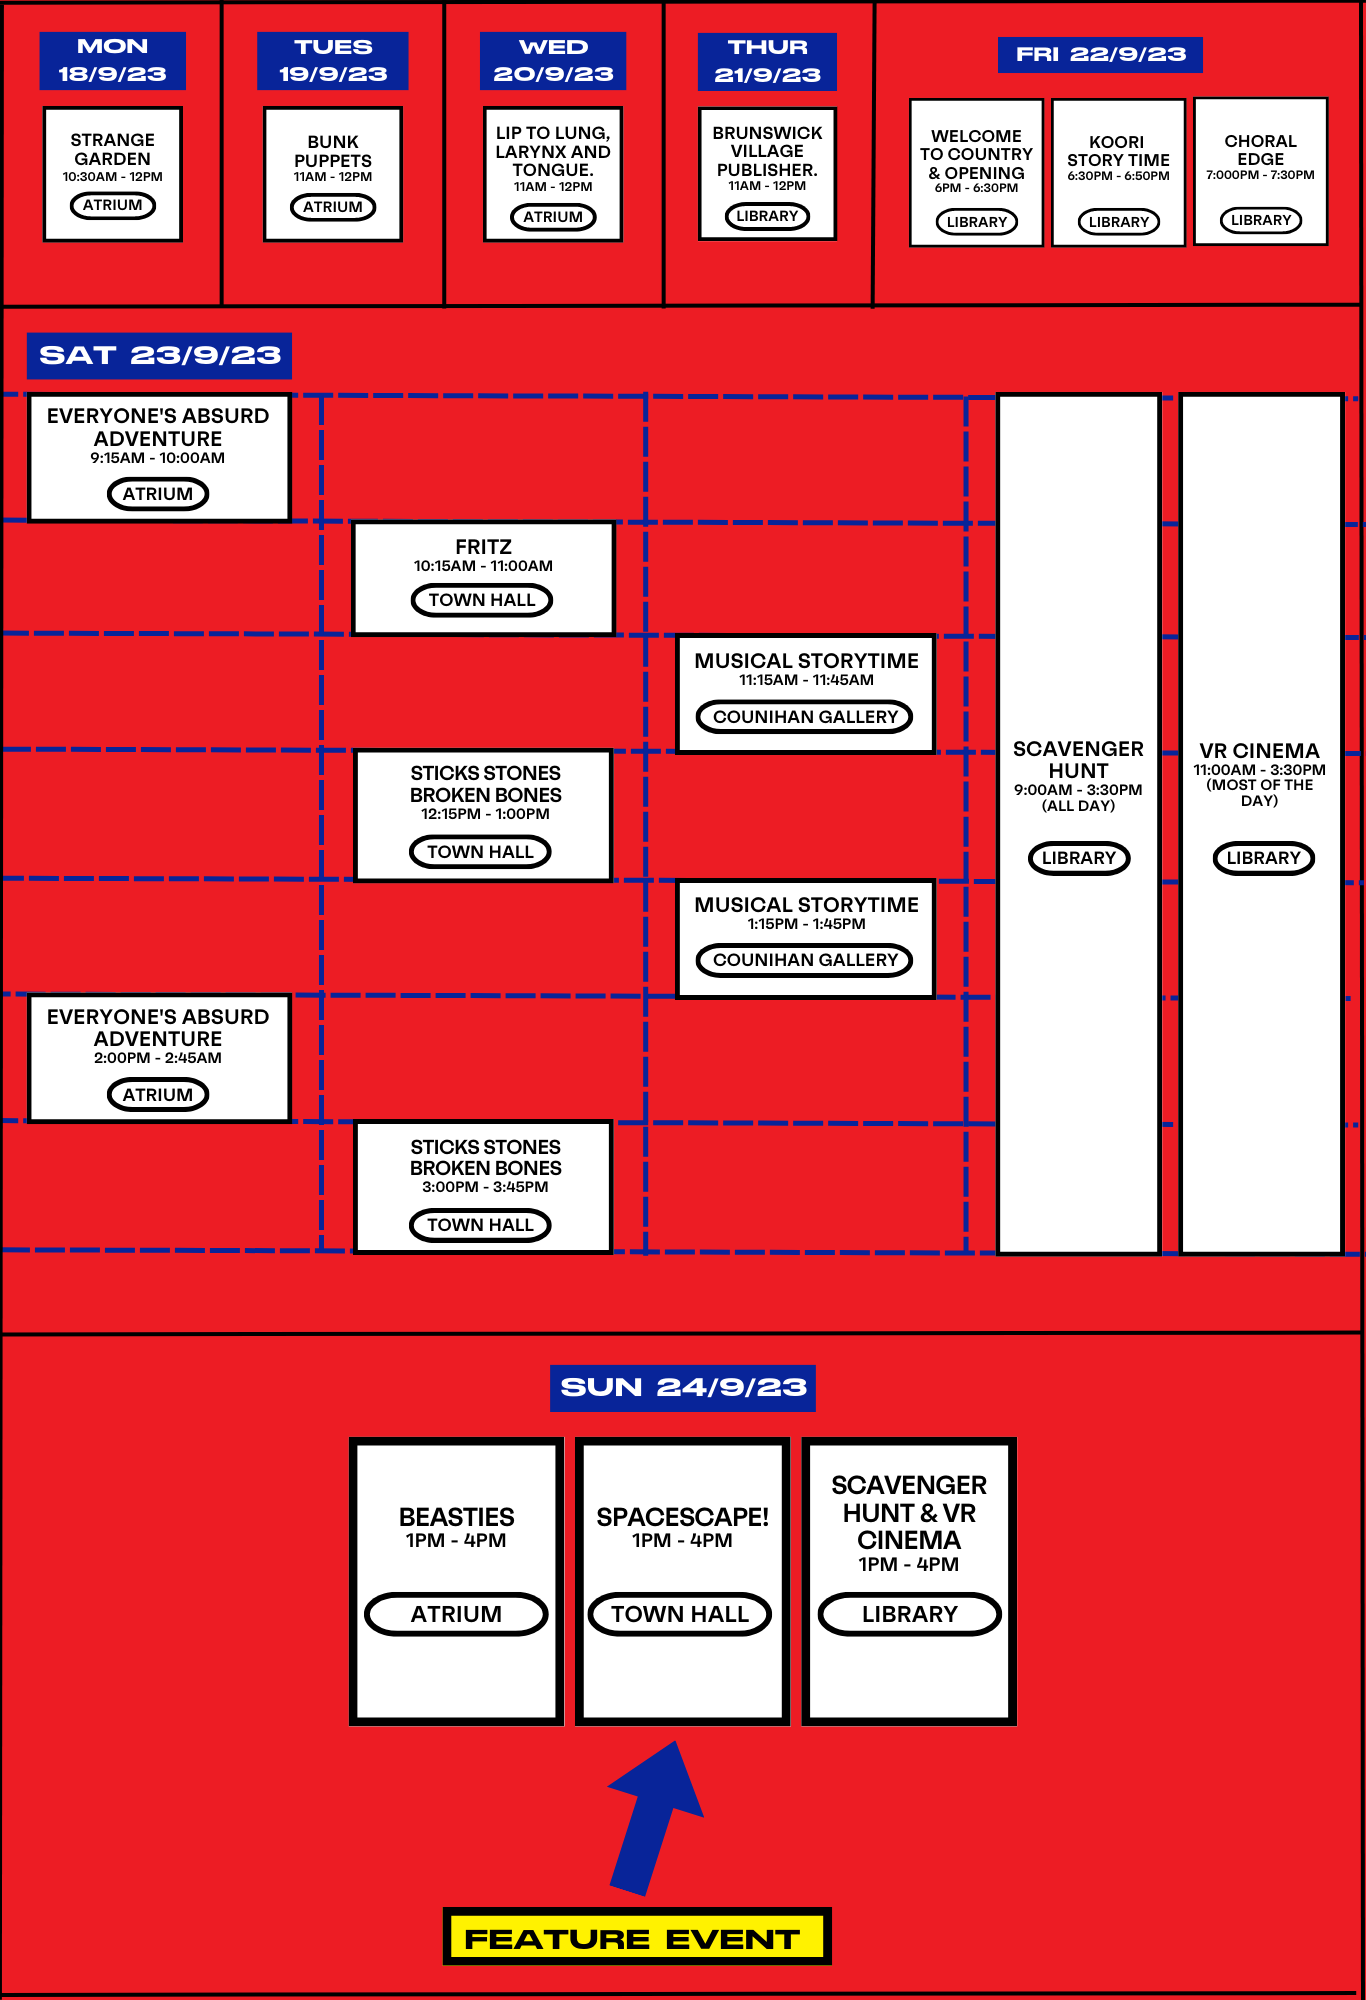
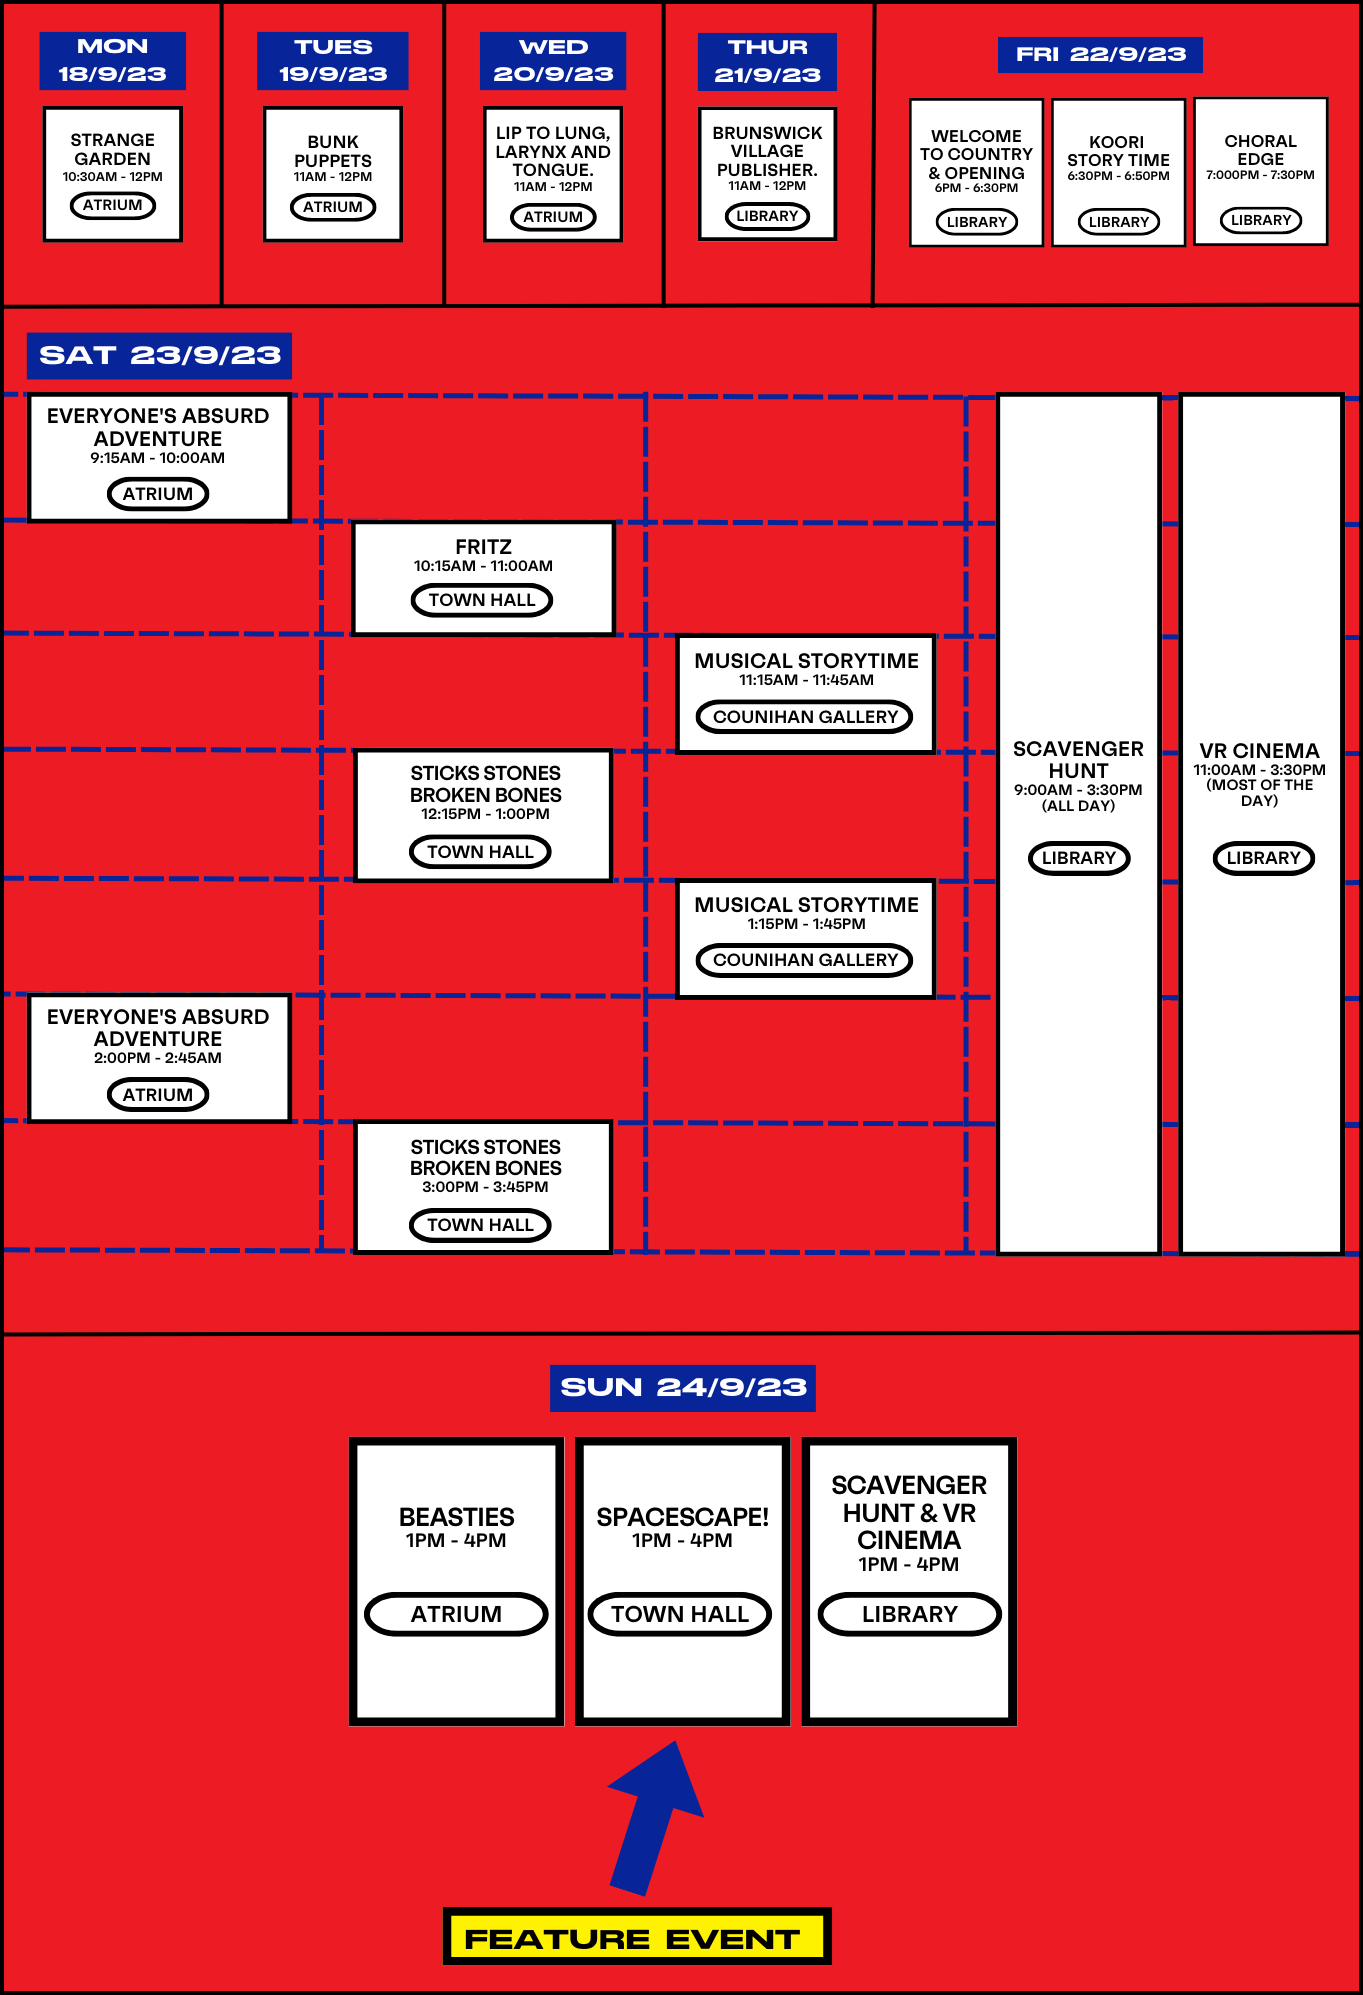
timetable format

diff --git a/src/components/timetable.jsx b/src/components/timetable.jsx
@@ -24,8 +24,8 @@ function TimetableContainer() {
           <Text textAlign="center" w="100%" mt="15px" className={"stretchpro"} fontSize={["12vw", "12vw", "10vw", "8xl"]} fontWeight={"extrabold"} color={"white"}>
           Timetable
           </Text>
-        <Flex w="100%" h="100%" alignItems={"center"} justifyContent={"center"}>
-          <Image display={["none", "none", "none", "flex", "flex"]} src={[timetableh]} boxSize={"fit-content"} alt="horizontal-timetable"/>
+        <Flex mb="20px" mx="20px" maxW="100%" objectFit={"cover"} justifyContent={"center"}>
+          <Image  w="90%" display={["none", "none", "none", "flex", "flex"]} src={[timetableh]} boxSize={"fit-content"} alt="horizontal-timetable"/>
           <Image display={["flex", "flex", "flex", "none", "none"]} src={[timetablev]} boxSize={"fit-content"} alt="vertical-timetable" />
         </Flex>
       </Flex>

diff --git a/src/components/tickets.jsx b/src/components/tickets.jsx
@@ -25,7 +25,7 @@ function TicketContainer() {
       <Text textAlign="center" w="100%" mt="15px" className={"stretchpro"} fontSize={["12vw", "12vw", "10vw", "8xl"]} fontWeight={"extrabold"} color={"white"}>
       Tickets
       </Text>
-      <Box px="1vw" w="80%" color={"white"} className="faktum-bold" fontSize={["20", "23", "20"]} maxW={"1200px"}>
+      <Box px="1vw" w="80%" color={"white"} className="faktum-bold" fontSize={["22", "23", "24", "24"]} maxW={"1200px"}>
         <Text textAlign={"center"}>
           Except for our Town Hall Program, all activities and workshops at the MBFF are completely free!
           <br /><br />
